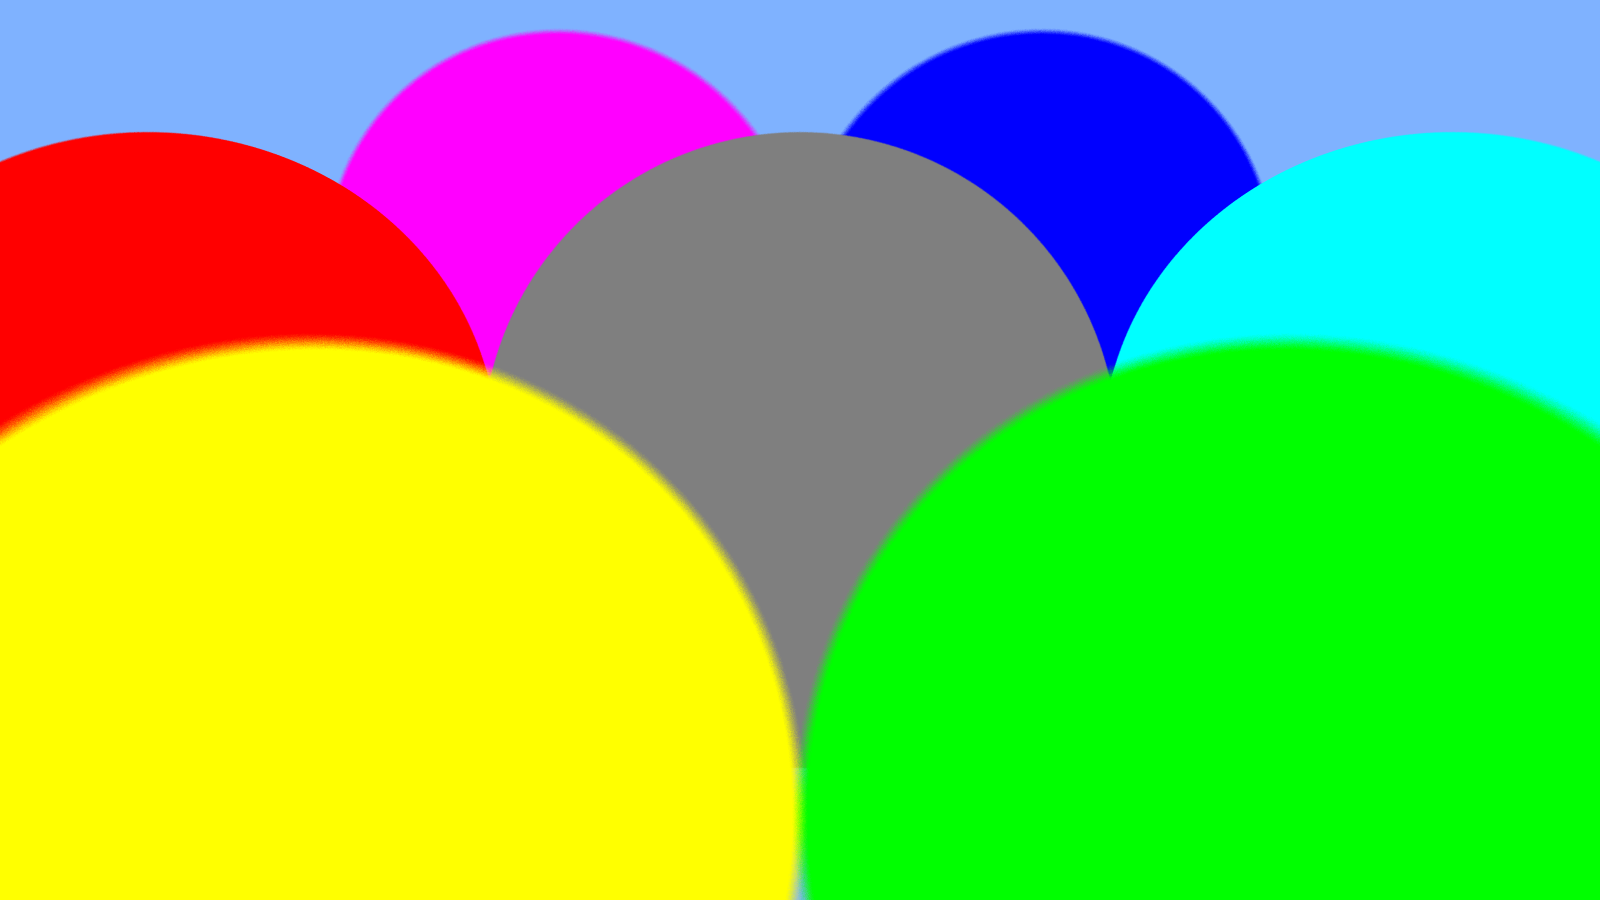
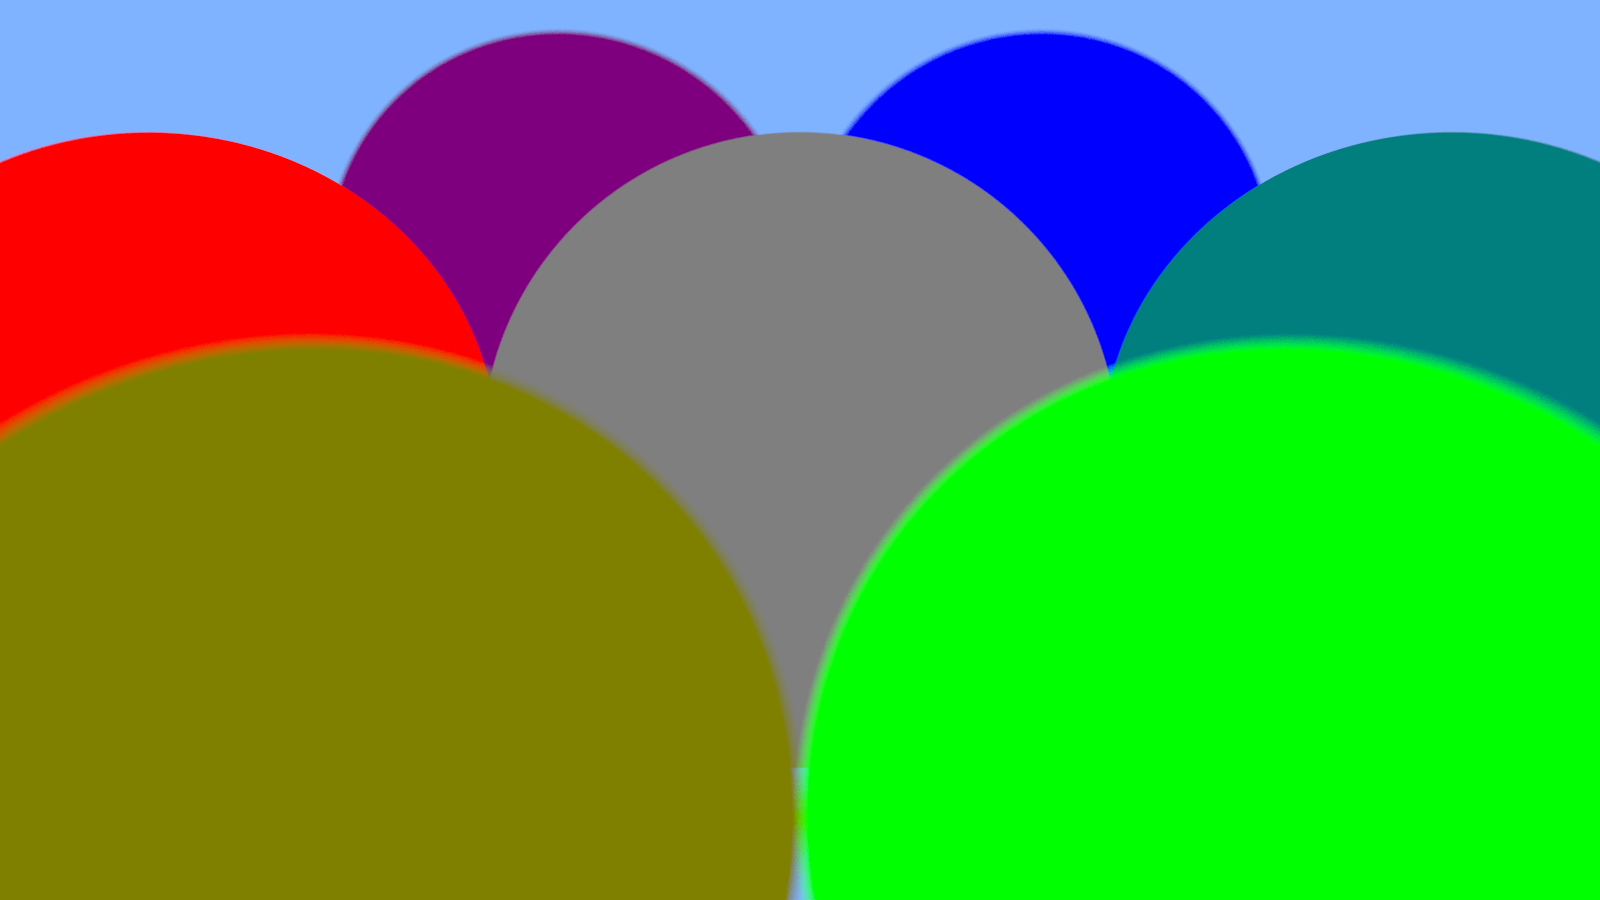
Use crates palette and approx.

diff --git a/src/main.rs b/src/main.rs
@@ -1,5 +1,6 @@
 use std::path::Path;
 
+use palette::Srgb;
 use raytracer_rust::pixels::Pixels;
 use raytracer_rust::renderer::Renderer;
 use raytracer_rust::scene::camera::Camera;
@@ -7,13 +8,18 @@ use raytracer_rust::scene::materials::Uniform;
 use raytracer_rust::scene::shapes::sphere::Sphere;
 use raytracer_rust::scene::Object;
 use raytracer_rust::scene::Scene;
-use raytracer_rust::utils::color::Color;
 use raytracer_rust::utils::point::Point;
 
 fn main() {
+    let mut pixels = Pixels::new(1600, 900);
+    let renderer = Renderer {
+        rays_per_pixel: 128,
+    };
+
     let x_offset = (std::f64::consts::PI / 3.0).sin();
 
     let scene = Scene {
+        background: Srgb::new(0.5, 0.7, 1.).into_linear(),
         camera: Camera::new(
             Point::from_xyz(-2., 0., 2.5),
             Point::from_xyz(0., 0., 1.5),
@@ -25,78 +31,47 @@ fn main() {
             Object {
                 shape: Box::new(Sphere::new(Point::from_xyz(0., 0., 1.5), 0.5)),
                 material: Box::new(Uniform {
-                    color: Color {
-                        red: 0.5,
-                        green: 0.5,
-                        blue: 0.5,
-                    },
+                    color: Srgb::new(0.5, 0.5, 0.5).into_linear(),
                 }),
             },
             Object {
                 shape: Box::new(Sphere::new(Point::from_xyz(0., 1., 1.5), 0.5)),
                 material: Box::new(Uniform {
-                    color: Color {
-                        red: 1.,
-                        green: 0.,
-                        blue: 0.,
-                    },
+                    color: Srgb::new(1., 0., 0.).into_linear(),
                 }),
             },
             Object {
                 shape: Box::new(Sphere::new(Point::from_xyz(-x_offset, 0.5, 1.5), 0.5)),
                 material: Box::new(Uniform {
-                    color: Color {
-                        red: 1.,
-                        green: 1.,
-                        blue: 0.,
-                    },
+                    color: Srgb::new(0.5, 0.5, 0.).into_linear(),
                 }),
             },
             Object {
                 shape: Box::new(Sphere::new(Point::from_xyz(-x_offset, -0.5, 1.5), 0.5)),
                 material: Box::new(Uniform {
-                    color: Color {
-                        red: 0.,
-                        green: 1.,
-                        blue: 0.,
-                    },
+                    color: Srgb::new(0., 1., 0.).into_linear(),
                 }),
             },
             Object {
                 shape: Box::new(Sphere::new(Point::from_xyz(0., -1., 1.5), 0.5)),
                 material: Box::new(Uniform {
-                    color: Color {
-                        red: 0.,
-                        green: 1.,
-                        blue: 1.,
-                    },
+                    color: Srgb::new(0., 0.5, 0.5).into_linear(),
                 }),
             },
             Object {
                 shape: Box::new(Sphere::new(Point::from_xyz(x_offset, -0.5, 1.5), 0.5)),
                 material: Box::new(Uniform {
-                    color: Color {
-                        red: 0.,
-                        green: 0.,
-                        blue: 1.,
-                    },
+                    color: Srgb::new(0., 0., 1.).into_linear(),
                 }),
             },
             Object {
                 shape: Box::new(Sphere::new(Point::from_xyz(x_offset, 0.5, 1.5), 0.5)),
                 material: Box::new(Uniform {
-                    color: Color {
-                        red: 1.,
-                        green: 0.,
-                        blue: 1.,
-                    },
+                    color: Srgb::new(0.5, 0., 0.5).into_linear(),
                 }),
             },
         ],
     };
-
-    let mut pixels = Pixels::new(1600, 900);
-    let renderer = Renderer { rays_per_pixel: 128 };
 
     renderer.render(&scene, &mut pixels);
 

diff --git a/src/pixels.rs b/src/pixels.rs
@@ -1,4 +1,4 @@
-use crate::utils::color::Color;
+use palette::{LinSrgb, Srgb};
 use std::fs::{create_dir_all, File};
 use std::io;
 use std::path::Path;
@@ -21,12 +21,13 @@ impl Pixels {
         }
     }
 
-    pub fn set_color(&mut self, row: usize, col: usize, color: Color) {
+    pub fn set_color(&mut self, row: usize, col: usize, color: LinSrgb) {
         let offset = (self.width * row + col) * DEPTH;
+        let color = Srgb::from_linear(color);
 
-        self.pixels[offset] = (color.red.clamp(0., 1.) * 255.) as u8;
-        self.pixels[offset + 1] = (color.green.clamp(0., 1.) * 255.) as u8;
-        self.pixels[offset + 2] = (color.blue.clamp(0., 1.) * 255.) as u8;
+        self.pixels[offset] = color.red;
+        self.pixels[offset + 1] = color.green;
+        self.pixels[offset + 2] = color.blue;
     }
 
     pub fn save(&self, path: &Path) -> io::Result<()> {
@@ -83,20 +84,20 @@ mod test {
             pixels.set_color(
                 0,
                 col,
-                Color {
-                    red: if col == 1 { 1. } else { 0. },
-                    green: if col == 2 { 1. } else { 0. },
-                    blue: if col == 3 { 1. } else { 0. },
-                },
+                LinSrgb::new(
+                    if col == 1 { 1. } else { 0. },
+                    if col == 2 { 1. } else { 0. },
+                    if col == 3 { 1. } else { 0. },
+                ),
             );
             pixels.set_color(
                 1,
                 col,
-                Color {
-                    red: if col != 1 { 1. } else { 0. },
-                    green: if col != 2 { 1. } else { 0. },
-                    blue: if col != 3 { 1. } else { 0. },
-                },
+                LinSrgb::new(
+                    if col != 1 { 1. } else { 0. },
+                    if col != 2 { 1. } else { 0. },
+                    if col != 3 { 1. } else { 0. },
+                ),
             );
         }
 

diff --git a/src/renderer.rs b/src/renderer.rs
@@ -1,23 +1,17 @@
 use crate::pixels::Pixels;
 use crate::scene::Scene;
-use crate::utils::color::Color;
 use crate::utils::random;
+use palette::LinSrgb;
 
 pub struct Renderer {
     pub rays_per_pixel: usize,
 }
 
-const BACKGROUND_COLOR: Color = Color {
-    red: 0.5,
-    green: 0.7,
-    blue: 1.,
-};
-
 impl Renderer {
     pub fn render(&self, scene: &Scene, pixels: &mut Pixels) {
         for row in 0..pixels.height {
             for col in 0..pixels.width {
-                let mut color = Color::default();
+                let mut color = LinSrgb::default();
                 for _ in 0..self.rays_per_pixel {
                     let pixel_offset = random::get_random_2d();
                     let lens_offset = random::get_random_in_disk();
@@ -39,10 +33,14 @@ impl Renderer {
                     {
                         object.material.get_color()
                     } else {
-                        BACKGROUND_COLOR
+                        scene.background
                     }
                 }
-                pixels.set_color(row, col, color / self.rays_per_pixel as f64);
+                color.red /= self.rays_per_pixel as f32;
+                color.green /= self.rays_per_pixel as f32;
+                color.blue /= self.rays_per_pixel as f32;
+
+                pixels.set_color(row, col, color);
             }
         }
     }

diff --git a/src/scene/camera.rs b/src/scene/camera.rs
@@ -77,12 +77,12 @@ mod test {
             Camera {
                 position: Point::from_xyz(0., 0., 1.5),
                 target: Point::from_xyz(8., 0., 1.5),
-                up: Point::from_xyz(0., 0., 0.04),
-                left: Point::from_xyz(0., 0.04, 0.),
+                up: Point::from_xyz(0., 0., 0.02),
+                left: Point::from_xyz(0., 0.02, 0.),
 
-                screen_origin: Point::from_xyz(8., -8., 1.5 - 4.5),
-                screen_horizontal: Point::from_xyz(0., 16., 0.),
-                screen_vertical: Point::from_xyz(0., 0., 9.),
+                screen_origin: Point::from_xyz(8., 8., 1.5 + 4.5),
+                screen_horizontal: Point::from_xyz(0., -16., 0.),
+                screen_vertical: Point::from_xyz(0., 0., -9.),
             }
         )
     }
@@ -107,8 +107,8 @@ mod test {
         assert_eq!(
             camera.get_ray((-1., 1.), (0.25, 0.75)),
             Ray {
-                origin: Point::from_xyz(0., -0.04, 1.5 + 0.04),
-                direction: Point::from_xyz(8., 16. / 4. + 0.04, -9. / 4. - 0.04),
+                origin: Point::from_xyz(0., -0.02, 1.5 + 0.02),
+                direction: Point::from_xyz(8., 16. / 4. + 0.02, -9. / 4. - 0.02),
             }
         );
     }

diff --git a/src/utils/point.rs b/src/utils/point.rs
@@ -1,7 +1,7 @@
 use std::iter::zip;
 use std::ops;
 
-use super::is_close;
+use approx::relative_eq;
 
 pub const DIMENSIONS: usize = 3;
 
@@ -127,7 +127,7 @@ impl ops::Neg for Point {
 
 impl PartialEq for Point {
     fn eq(&self, other: &Self) -> bool {
-        zip(self.coord, other.coord).all(|(x1, x2)| is_close(x1, x2))
+        zip(self.coord, other.coord).all(|(x1, x2)| relative_eq!(x1, x2))
     }
 
     fn ne(&self, other: &Self) -> bool {

diff --git a/src/scene/materials.rs b/src/scene/materials.rs
@@ -1,15 +1,15 @@
-use crate::utils::color::Color;
+use palette::LinSrgb;
 
 pub trait Material {
-    fn get_color(&self) -> Color;
+    fn get_color(&self) -> LinSrgb;
 }
 
 pub struct Uniform {
-    pub color: Color,
+    pub color: LinSrgb,
 }
 
 impl Material for Uniform {
-    fn get_color(&self) -> Color {
+    fn get_color(&self) -> LinSrgb {
         self.color
     }
 }

diff --git a/src/scene/mod.rs b/src/scene/mod.rs
@@ -3,6 +3,7 @@ pub mod materials;
 pub mod shapes;
 
 use materials::Material;
+use palette::LinSrgb;
 use shapes::Shape;
 
 use self::camera::Camera;
@@ -15,4 +16,5 @@ pub struct Object {
 pub struct Scene {
     pub camera: Camera,
     pub objects: Vec<Object>,
+    pub background: LinSrgb,
 }

diff --git a/src/utils/mod.rs b/src/utils/mod.rs
@@ -1,11 +1,4 @@
-pub mod color;
 pub mod hit;
 pub mod point;
 pub mod random;
 pub mod ray;
-
-const REL_TOL: f64 = 1e-9;
-
-pub fn is_close(a: f64, b: f64) -> bool {
-    (a - b).abs() <= (a + b).abs() * REL_TOL
-}
